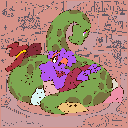
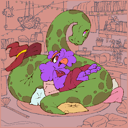
art

diff --git a/art/index.html b/art/index.html
@@ -208,7 +208,19 @@ display="assets/birrbirbirbiri.gif"
 alt="Drawing of my sona Apple Bird"
 dimensions="1030x1114"
 date="January 2026">
-<p class="image-text">Drawing of my sona Apple Bird<br><br>(Click to view)</p></div><!-- IMAGES -->
+<p class="image-text">Drawing of my sona Apple Bird<br><br>(Click to view)</p></div><div class="image-wrap"><img
+link="https://bsky.app/profile/jamiemakes.art/post/3mctmu5qf3c2r"
+display="assets/NahuaCommish.gif"
+alt="Commission for @spax.zone of their character Nahua"
+dimensions="2880x2160"
+date="January 2026">
+<p class="image-text">Commission for @spax.zone of their character Nahua<br><br>(Click to view)</p></div><div class="image-wrap"><img
+link="https://bsky.app/profile/jamiemakes.art/post/3mcxlkuorqc2j"
+display="assets/LeslieDoodle.gif"
+alt="Drawing of @bnuuy.space's character Gwen"
+dimensions="900x900"
+date="January 2026">
+<p class="image-text">Drawing of @bnuuy.space's character Gwen<br><br>(Click to view)</p></div><!-- IMAGES -->
 
       
 

diff --git a/art/art.py b/art/art.py
@@ -1,5 +1,5 @@
 import PIL
-from PIL import Image
+from PIL import Image, ImagePalette
 import os
 
 
@@ -48,7 +48,10 @@ for i in images:
             resize = og.crop((uppercrop,0,og.height+uppercrop, og.height))
         else:
             resize = og.crop((0,uppercrop*-1,og.width, og.width-uppercrop))
-        resize = resize.resize((128, 128), Image.NEAREST)
+        resize = resize.resize((512, 512))
+        resize = resize.convert("RGBA")
+        resize = resize.resize((128, 128))
+
 
         thumbnail = Image.new("RGBA", (128,128))
         thumbnail.paste(resize, (0,0))
